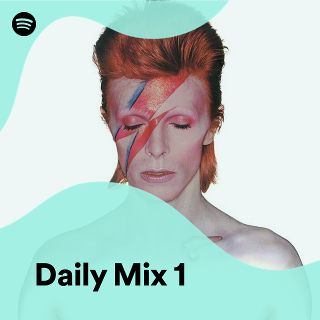
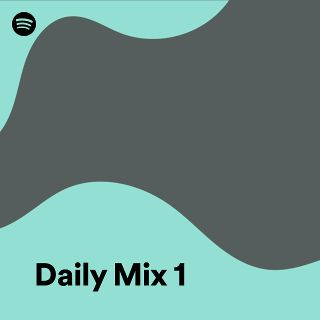
Binded playlist data and added playlist cards

diff --git a/src/app/body/your-library.component.html b/src/app/body/your-library.component.html
@@ -1,9 +1,12 @@
 <div style="background-color: lightcoral;">
     <div class="container-fluid">
         <div class="d-flex flex-row">
-            <spotify-playlist-card></spotify-playlist-card>
-            <spotify-playlist-card></spotify-playlist-card>
-            <spotify-playlist-card></spotify-playlist-card>
+            <div *ngFor="let playlist of playlists;">
+                <spotify-playlist-card title={{playlist.title}} author={{playlist.author}} imagePath={{playlist.imagePath}}>
+                    Loading card
+
+                </spotify-playlist-card>
+            </div>
         </div>
     </div>
 </div>

diff --git a/src/app/body/mock-playlists.ts b/src/app/body/mock-playlists.ts
@@ -1,0 +1,22 @@
+export const mock_playlists = [
+{
+    title: "Daily Mix 1",
+    author: "Queen, THe Beatles, Nickelback and more",
+    imagePath: "./assets/default.jpg"
+},
+{
+    title: "Daily Mix 2",
+    author: "Tyler, The Creator, Kanye West, Eminem...",
+    imagePath: "./assets/default2.jpg"
+},
+{
+    title: "Daily Mix 3",
+    author: "Gareth Coker, Inon Zur, Rocco DeLUca and more",
+    imagePath: "./assets/default3.jpg"
+},
+{
+    title: "Daily Mix 4",
+    author: "Foo Fighters, The Killers, Kaiser Chiefs and more",
+    imagePath: "./assets/default4.jpg"
+},
+]

diff --git a/src/app/body/your-library.component.ts b/src/app/body/your-library.component.ts
@@ -1,10 +1,16 @@
 import { Component } from "@angular/core";
 import { Playlist } from "./playlist.model";
+import { mock_playlists } from "./mock-playlists";
 
-@Component ({
+@Component({
     selector: "spotify-your-library",
     templateUrl: "your-library.component.html"
 })
 export class YourLibraryComponent {
-    playlists:Playlist[] = [];
+    playlists: Playlist[] = [];
+    constructor() {
+        for (var playlist of mock_playlists) {
+            this.playlists.push(new Playlist(playlist));
+        }
+    }
 }

diff --git a/src/app/body/playlist-card.component.html b/src/app/body/playlist-card.component.html
@@ -1,7 +1,7 @@
 <div class="card m-2 p-3" style="width: 12rem; background-color: black">
-    <img src="./assets/default.jpg" class="card-img-top" alt="...">
-    <div class="card-body text-white">
-      <h6 class="card-title">Card title</h6>
-      <p class="card-text">By Author</p>
+    <img src={{imagePath}} class="card-img-top" alt="...">
+    <div class="card-body text-white text-truncate">
+      <h6 class="card-title">{{title}}</h6>
+      <p class="card-text">{{author}}</p>
     </div>
   </div>

diff --git a/src/app/body/playlist-card.component.ts b/src/app/body/playlist-card.component.ts
@@ -1,9 +1,15 @@
-import { Component } from "@angular/core";
+import { Component, Input } from "@angular/core";
 
 @Component ({
     selector: "spotify-playlist-card",
     templateUrl: "playlist-card.component.html"
 })
 export class PlaylistCardComponent {
+    @Input()
+    title! :string;
+    @Input()
+    author! :string;
+    @Input()
+    imagePath! :string;
 
 }
